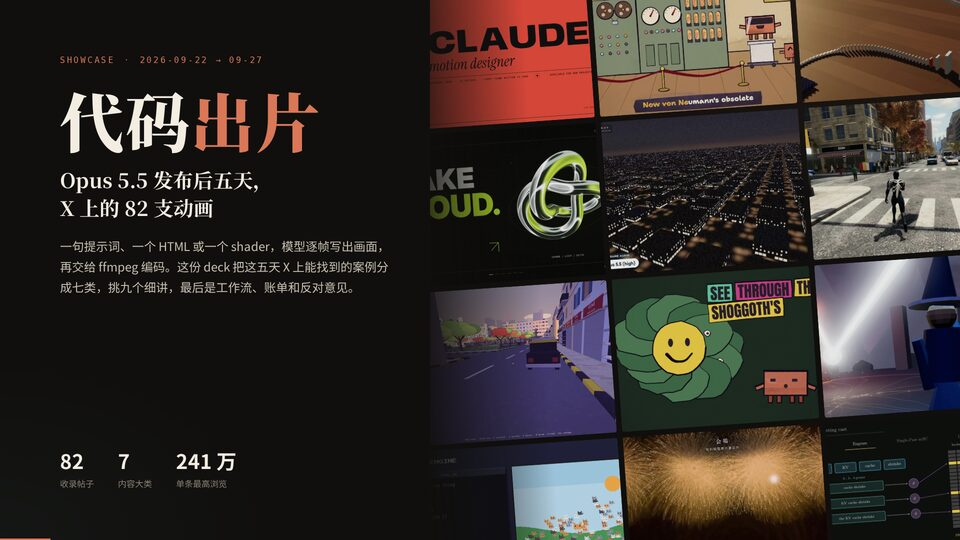
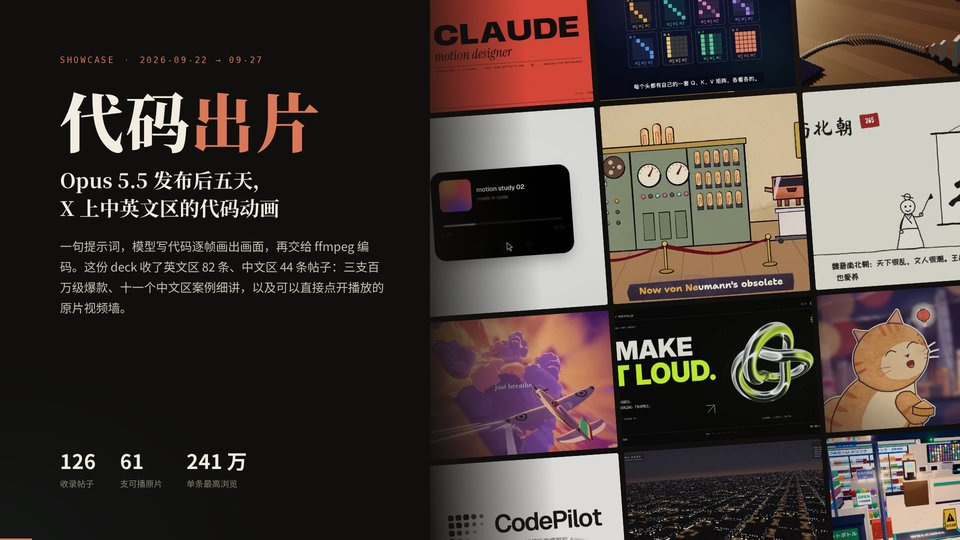
showcase opus55-video: 加入中文区 44 条、十一个案例与视频墙，更新封面与文案

diff --git a/showcases.md b/showcases.md
@@ -14,21 +14,23 @@ wide: true
 <ul class="cover-list" role="list">
 
 <li class="cover-row" data-cats="Claude · LLM">
-<a class="cover-media" href="https://ftp.ssbx.site/showcases/opus55-video/"><img src="/assets/img/site/covers/opus55-video.jpg" alt="代码出片 deck 封面：左侧标题，右侧是十二张社区作品截帧拼成的斜向马赛克" loading="lazy"></a>
+<a class="cover-media" href="https://ftp.ssbx.site/showcases/opus55-video/"><img src="/assets/img/site/covers/opus55-video.jpg" alt="代码出片 deck 封面：左侧标题与 126 帖、61 支原片等数字，右侧是中英文区作品截帧拼成的马赛克" loading="lazy"></a>
 <div class="cover-body" markdown="1">
-## 代码出片 · Opus 5.5 发布后五天的社区动画
+## 代码出片 · Opus 5.5 发布后五天的中英文区动画
 
-Claude Opus 5.5 在 9 月 22 日发布，之后五天 X 上冒出一大批「模型写代码、逐帧渲染、ffmpeg 编码」做出来的动画。用 Grok 的 X 搜索抓了 **82 条帖子**，再逐条回查原帖（81 条在，1 条已删），归成七类：动态图形样片、产品宣传片、科普讲解、音乐 MV、3D 游戏与物理、shader 生成艺术、复盘与模型对照。
+Claude Opus 5.5 在 9 月 22 日发布，之后五天 X 上冒出一大批「模型写代码、逐帧渲染、ffmpeg 编码」做出来的动画。用 Grok 的 X 搜索分两轮抓了英文区 82 条、中文区 44 条，**共 126 条帖子**，逐条回查原帖（125 条在，1 条已删）。
 
-挑了九个细讲，**每个都能在页内直接播放原片**，下方镜头条点一下跳到对应时间：157 万浏览的 **15 秒动效简历**和那句被复制几百遍的提示词；同一台机器上 Opus 对 GPT-6 Astra，Opus 自己打开了 Blender；241 万浏览的 P(Doom) MV 和它被换了三次画风的仓库；7 分钟讲 DeepSeek KV cache 的自写 3B1B 式引擎；模型自己量响度、跑 Whisper 验收的 42 词像素短片；19400 块刚体多米诺；一个 shader 撑完 4 分钟的无限城市。
+英文区留了三支百万级爆款细讲：157 万浏览的 15 秒动效简历和那句被复制几百遍的提示词，同一台机器上 Opus 对 GPT-6 Astra，241 万浏览的 P(Doom) MV。中文区细讲十一个：宝玉四行提示词出的 12 分钟 Transformer 课，WY 用 1% 周额度做的五千年线稿史，Axton 把 83 秒真人口播改成线稿动画，歸藏把产品片经验写成 skill 一周出四条，92 万浏览、被评「AE 动效设计师天塌了」的 14 秒 UI 形变，海辛的中秋拼贴，还有鹈鹕骑车、雨夜便利店这类 3D 网页。
 
-后半部分是通用工作流、从 $0 到 $3000 的账单对数图、和别家模型比的六份证言（结论不一致），以及专业动效人的反对意见：同一句提示词跑出来的片子越来越像，音乐是最常被点名的短板。
+**61 支原片全长都能在页内播放**，案例页下方镜头条点一下跳到对应时间；末尾四面视频墙按浏览量排好，点任一格弹出大窗放原片。
+
+后半部分是通用工作流、从 $0 到 $3000 的账单图、和别家模型比的证言（结论不一致），以及两边的反对意见：同一句提示词跑出来的片子越来越像，音乐最常被点名，中文区也有人直说「没有提示词和素材，出来的就是廉价版」。
 
 → [打开 Showcase](https://ftp.ssbx.site/showcases/opus55-video/)
 
 *整理时间：2026-09-27。*
 
-<div class="mg-card-react" data-mg-react data-mode="compact" data-slug="showcase:opus55-video" data-title="代码出片 · Opus 5.5 发布后五天的社区动画" data-url="https://ftp.ssbx.site/showcases/opus55-video/"></div>
+<div class="mg-card-react" data-mg-react data-mode="compact" data-slug="showcase:opus55-video" data-title="代码出片 · Opus 5.5 发布后五天的中英文区动画" data-url="https://ftp.ssbx.site/showcases/opus55-video/"></div>
 </div>
 </li>
 
